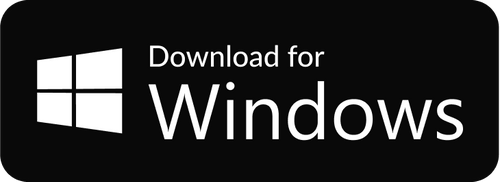
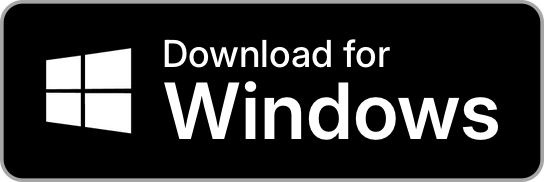
feat: an APK button between the App Store and Google Play badges opens the latest mobile release, and every download button is the same height, the desktop and APK ones in the App Store badge's shape and border

diff --git a/index.html b/index.html
@@ -112,22 +112,24 @@
       <!-- Download Releases Section -->
       <section id="downloads" class="mt-6 mb-6" aria-label="Downloads">
         <div class="download-grid">
-          <button id="btn-mac" class="dl-desktop" type="button">
-            <img src="./images/macos.png" width="500" height="182" alt="Download for macOS" />
+          <button id="btn-mac" type="button">
+            <img src="./images/macos.png" width="544" height="182" alt="Download for macOS" />
           </button>
-          <button id="btn-linux" class="dl-desktop" type="button">
-            <img src="./images/linux.png" width="500" height="182" alt="Download for Linux" />
+          <button id="btn-linux" type="button">
+            <img src="./images/linux.png" width="544" height="182" alt="Download for Linux" />
           </button>
-          <button id="btn-windows" class="dl-desktop" type="button">
-            <img src="./images/windows.png" width="500" height="182" alt="Download for Windows" />
+          <button id="btn-windows" type="button">
+            <img src="./images/windows.png" width="544" height="182" alt="Download for Windows" />
           </button>
-          <span class="dl-break" aria-hidden="true"></span>
           <!-- TODO: put the App Store link here once PeerSky is published, and drop data-coming-soon -->
-          <a id="btn-ios" class="dl-store dl-ios" href="#todo-app-store" target="_blank" rel="noopener noreferrer" data-coming-soon>
+          <a id="btn-ios" href="#todo-app-store" target="_blank" rel="noopener noreferrer" data-coming-soon>
             <img src="./images/app-store-badge.svg" width="120" height="40" alt="Download on the App Store" />
           </a>
+          <a id="btn-apk" href="https://github.com/p2plabsxyz/peersky-mobile/releases/latest" target="_blank" rel="noopener noreferrer">
+            <img src="./images/apk.png" width="544" height="182" alt="Download the APK for Android" />
+          </a>
           <!-- TODO: put the Google Play link here once PeerSky is published, and drop data-coming-soon -->
-          <a id="btn-android" class="dl-store dl-android" href="#todo-google-play" target="_blank" rel="noopener noreferrer" data-coming-soon>
+          <a id="btn-android" href="#todo-google-play" target="_blank" rel="noopener noreferrer" data-coming-soon>
             <img src="./images/google-play-badge.svg" width="239" height="71" alt="Get it on Google Play" />
           </a>
         </div>

diff --git a/site.css b/site.css
@@ -289,17 +289,18 @@ html[data-theme="dark"] .post-body figure > img {
 
 /* ---------- Downloads ---------- */
 
+/* Every button is the same height. The desktop and APK buttons are drawn in
+   the App Store badge's shape (544 by 182), so only the Google Play badge,
+   which Google draws wider, differs in width. On phones the desktop buttons
+   and the phone ones stand in two columns: three in a row would be under
+   40px tall, the smallest Apple allows for its badge on screen. */
 .download-grid {
-  display: flex;
-  flex-wrap: wrap;
+  display: grid;
+  grid-template-rows: repeat(3, auto);
+  grid-auto-flow: column;
   justify-content: center;
-  align-items: center;
-  gap: 12px;
-}
-
-.dl-break {
-  flex-basis: 100%;
-  height: 0;
+  justify-items: start;
+  gap: 10px 12px;
 }
 
 .download-grid a,
@@ -309,23 +310,9 @@ html[data-theme="dark"] .post-body figure > img {
   border-radius: 8px;
 }
 
-/* On phones the three desktop buttons share the row, up to 40px tall like
-   the store badges below them, which Apple keeps at least 40px on screen. */
-.dl-desktop {
-  width: calc((100% - 24px) / 3);
-  max-width: 110px;
-}
-
-.dl-desktop img {
-  width: 100%;
-}
-
-.dl-store img {
+.download-grid img {
   width: auto;
   height: 40px;
-}
-
-.download-grid img {
   transition: opacity 0.15s ease;
 }
 
@@ -347,20 +334,13 @@ html[data-theme="dark"] .post-body figure > img {
 
 @media (min-width: 640px) {
   .download-grid {
-    display: grid;
-    grid-template-columns: repeat(6, 80px);
-    justify-content: center;
-    gap: 14px 0;
+    grid-template-columns: repeat(3, auto);
+    grid-template-rows: none;
+    grid-auto-flow: row;
+    gap: 14px;
   }
 
-  .dl-break { display: none; }
-  .dl-desktop { grid-column: span 2; justify-self: center; width: auto; max-width: none; }
-  .dl-desktop img { width: 8rem; }
-  /* As tall as the desktop buttons above them (8rem wide, drawn 500 by 182).
-     Phones keep 40px, the smallest Apple allows for its badge on screen. */
-  .dl-store img { height: calc(8rem * 182 / 500); }
-  .dl-ios { grid-column: 2 / 4; justify-self: center; }
-  .dl-android { grid-column: 4 / 6; justify-self: center; }
+  .download-grid img { height: 46px; }
 }
 
 /* The release version, at the start of each download list. */
